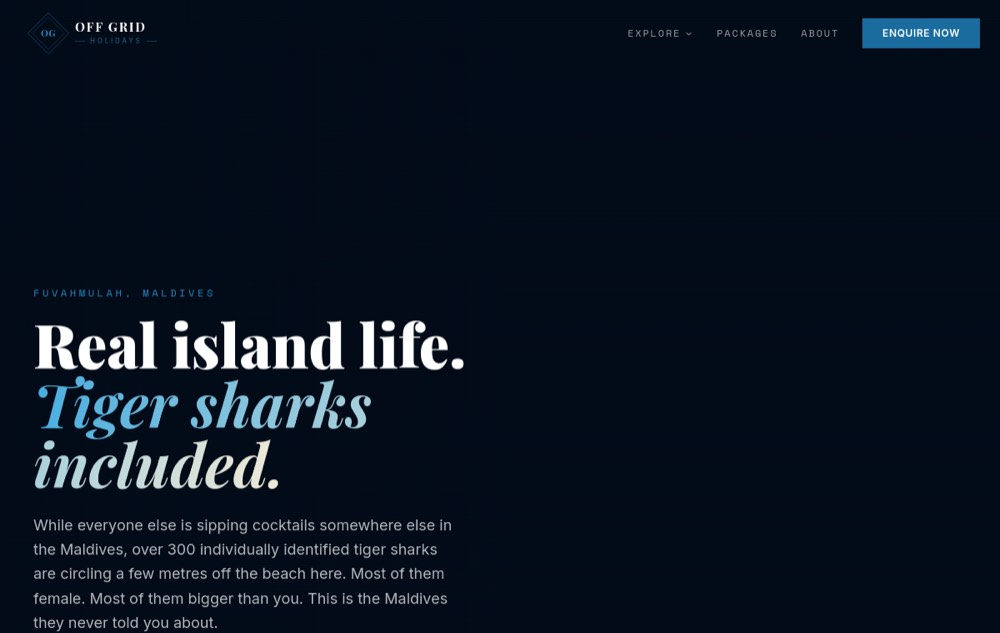
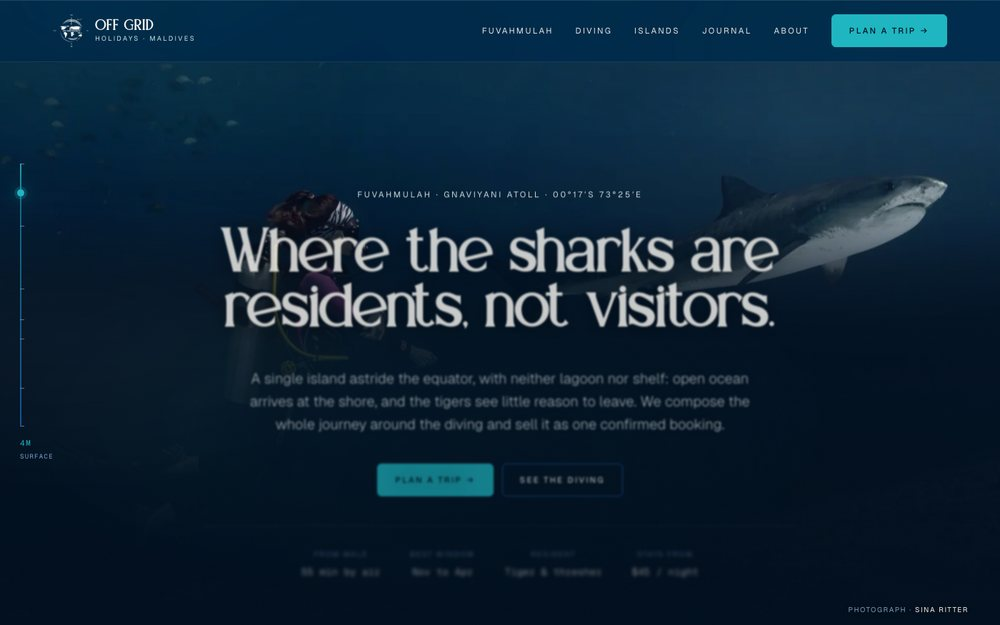
Update Off Grid Holidays card with new site hero

diff --git a/public/portfolio.html b/public/portfolio.html
@@ -47,7 +47,7 @@
           [
             {"title":"Shark Sensei","description":"Shark diving academy — course booking, online exams and diver certification","imageSrc":"/assets/portfolio/sharksafetydiver.jpg","href":"https://sharksafetydiver.com"},
             {"title":"Rishthaa Company","description":"Construction & telecom — searchable 25-project portfolio","imageSrc":"/assets/portfolio/rishthaa.jpg","href":"https://www.rishthaa.mv"},
-            {"title":"Off Grid Holidays","description":"Maldives island-experience travel brand","imageSrc":"/assets/portfolio/ogholidays.jpg","href":"https://ogholidays.com"}
+            {"title":"Off Grid Holidays","description":"Maldives island-experience travel brand","imageSrc":"/assets/portfolio/ogholidays.jpg?v=2","href":"https://ogholidays.com"}
           ]
         </script>
       </div>
